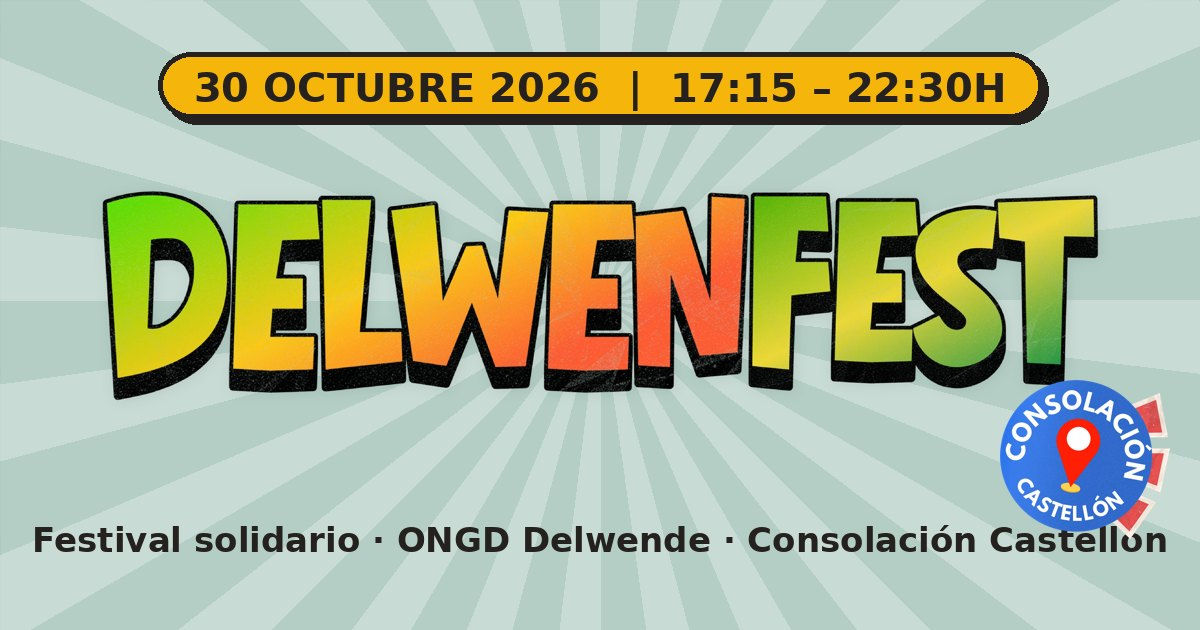
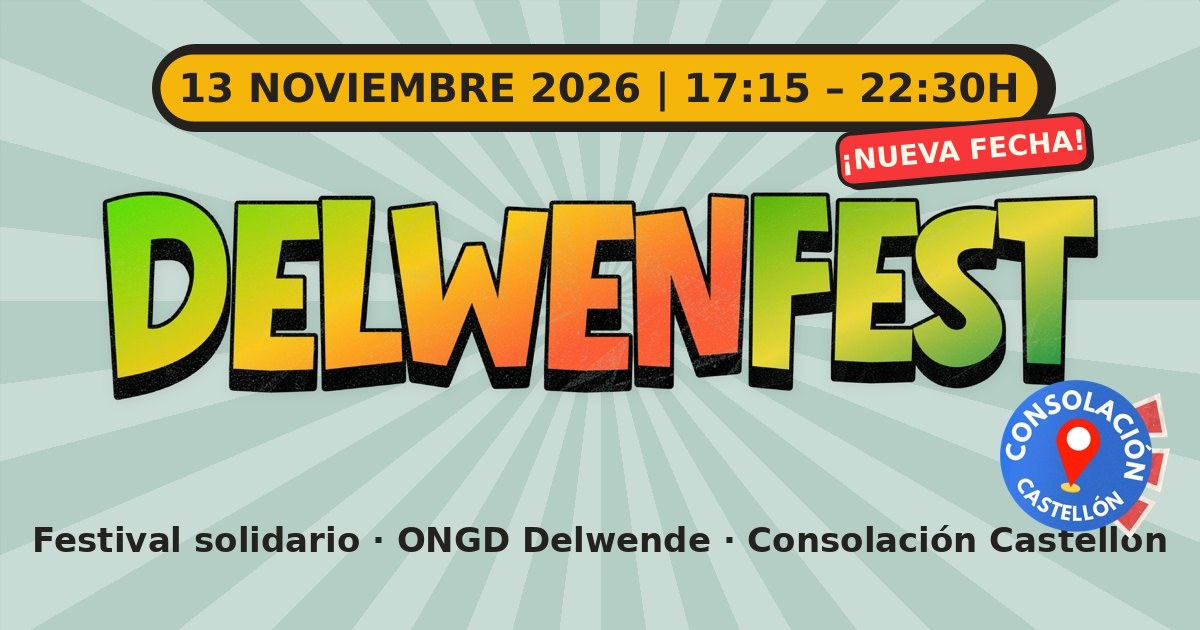
Aplazamos el DELWENFEST al 13 de noviembre con indicador de nueva fecha
Mismo horario (17:15–22:30, Rodhel Show a las 20:30). Fecha actualizada en hero,
horario, lugar, recordatorios (ics/Google/Outlook), metadatos y og.jpg; el .ics
lleva SEQUENCE:1 para que los calendarios ya guardados se actualicen.

Claude-Session: https://claude.ai/code/session_01L7PquDZCJrBcJmsSrowMxX

Changed region(s): [[0.1233, 0.0603, 0.925, 0.3016]]

diff --git a/src/lib/ics.ts b/src/lib/ics.ts
@@ -2,10 +2,10 @@ import { EVENT, VENUE } from '../data/event';
 
 /** Avisos que se pueden elegir en el recordatorio (máx. 2, lo que admite el calendario del iPhone). */
 export const ALARMS = [
-  { key: '1s', trigger: '-P7D', label: '1 semana antes', when: 'Vie 23 oct' },
-  { key: '1d', trigger: '-P1D', label: 'El día antes', when: 'Jue 29 · 17:15' },
-  { key: '2h', trigger: '-PT2H', label: '2 horas antes', when: 'Vie 30 · 15:15' },
-  { key: '30m', trigger: '-PT30M', label: '30 min antes', when: 'Vie 30 · 16:45' },
+  { key: '1s', trigger: '-P7D', label: '1 semana antes', when: 'Vie 6 nov' },
+  { key: '1d', trigger: '-P1D', label: 'El día antes', when: 'Jue 12 · 17:15' },
+  { key: '2h', trigger: '-PT2H', label: '2 horas antes', when: 'Vie 13 · 15:15' },
+  { key: '30m', trigger: '-PT30M', label: '30 min antes', when: 'Vie 13 · 16:45' },
 ] as const;
 
 export type AlarmKey = (typeof ALARMS)[number]['key'];
@@ -58,9 +58,10 @@ export function buildIcs(alarms: readonly AlarmKey[]) {
     'METHOD:PUBLISH',
     'BEGIN:VEVENT',
     'UID:delwenfest-2026@movimientoconsolacion.com',
-    'DTSTAMP:20261021T120000Z',
-    'DTSTART:20261030T161500Z',
-    'DTEND:20261030T213000Z',
+    'SEQUENCE:1',
+    'DTSTAMP:20261029T120000Z',
+    'DTSTART:20261113T161500Z',
+    'DTEND:20261113T213000Z',
     `SUMMARY:${escape('DELWENFEST · Festival solidario Delwende')}`,
     `LOCATION:${escape(`${VENUE.name}, ${address}`)}`,
     `X-APPLE-STRUCTURED-LOCATION;VALUE=URI;X-ADDRESS="${address}";X-APPLE-RADIUS=60;X-TITLE="Entrada DELWENFEST (C/ Mª Rosa Molas)":geo:${lat},${lng}`,

diff --git a/src/data/event.ts b/src/data/event.ts
@@ -45,11 +45,17 @@ import gvaIvaj from '../assets/partners/gva-ivaj.webp';
 export const EVENT = {
   name: 'DELWENFEST',
   tagline: 'El festival solidario de la ONGD Delwende',
-  dateLabel: '30 octubre 2026',
+  dateLabel: '13 noviembre 2026',
+  dateLong: '13 de noviembre',
+  day: '13',
+  monthShort: 'Nov',
+  isoDate: '2026-11-13',
   weekday: 'Viernes',
-  // 30/10/2026 ya es horario de invierno (CET, UTC+1)
-  start: '2026-10-30T17:15:00+01:00',
-  end: '2026-10-30T22:30:00+01:00',
+  // Aplazado desde el 30 de octubre de 2026
+  previousDateLabel: '30 octubre',
+  // 13/11/2026 ya es horario de invierno (CET, UTC+1)
+  start: '2026-11-13T17:15:00+01:00',
+  end: '2026-11-13T22:30:00+01:00',
   timeLabel: '17:15 – 22:30',
   donation: '2 €',
   url: import.meta.env.SITE.replace(/\/$/, ''),
@@ -86,7 +92,7 @@ export const CALENDAR = {
   google:
     'https://calendar.google.com/calendar/render?action=TEMPLATE' +
     `&text=${encodeURIComponent('DELWENFEST · Festival solidario Delwende')}` +
-    '&dates=20261030T171500/20261030T223000&ctz=Europe/Madrid' +
+    '&dates=20261113T171500/20261113T223000&ctz=Europe/Madrid' +
     `&details=${encodeURIComponent(calDetails)}` +
     `&location=${encodeURIComponent(`${VENUE.name}, ${VENUE.street}, ${VENUE.city}`)}`,
   ics: '/delwenfest.ics',

diff --git a/public/sw.js b/public/sw.js
@@ -1,5 +1,5 @@
 // Service worker del DELWENFEST: la web (horario, dirección…) sigue disponible sin cobertura.
-const CACHE = 'delwenfest-v4';
+const CACHE = 'delwenfest-v5';
 const CORE = ['/', '/manifest.webmanifest', '/favicon.svg', '/icons/icon-192.png', '/delwenfest.ics'];
 
 self.addEventListener('install', (event) => {
